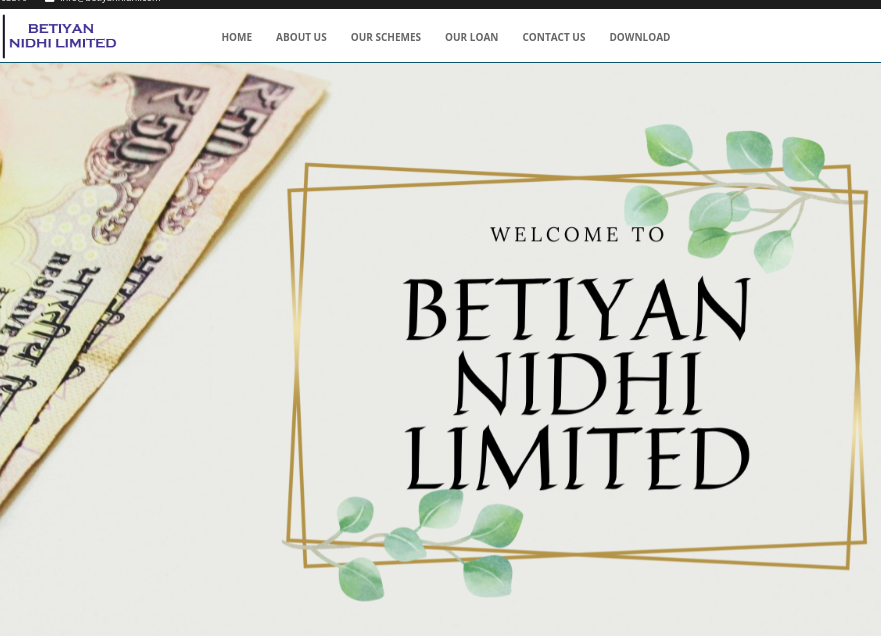
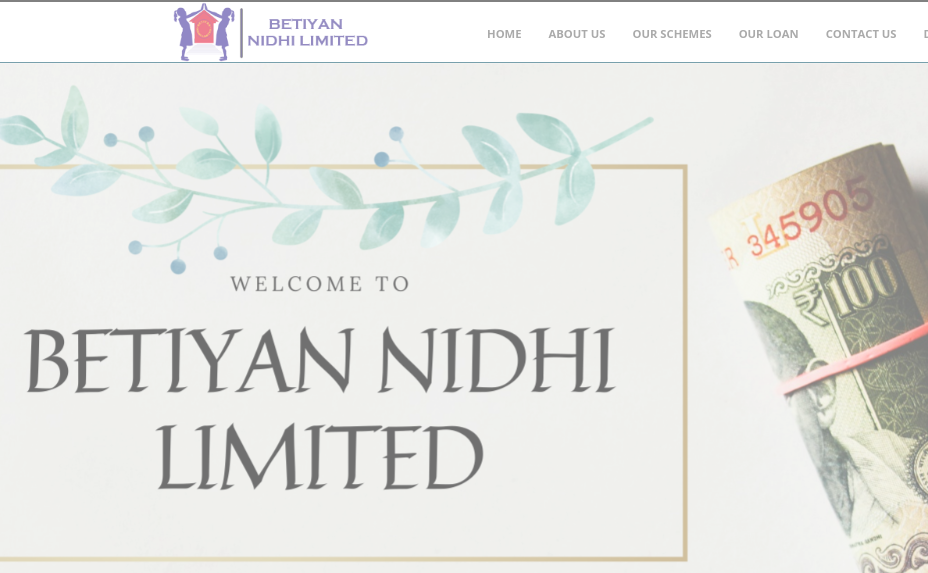
Modified frame components

diff --git a/src/Components/Frames/MobileFrame/MobileFrame.css b/src/Components/Frames/MobileFrame/MobileFrame.css
@@ -1,19 +1,66 @@
-
 .mobile-container {
-    width: 22%;
-    background-color: rgb(22,23,23);
-    border-radius: 35px;
-    padding: 10px;
-    margin-right: 40px;
-    display: flex;
-    justify-content: center;
-    align-items: center;
-    box-shadow: 0 0 10px 1px rgba(250,250,250, 0.5);
+  display: flex;
+  flex-direction: row;
+  margin: 30px;
+}
+
+.mobile-content {
+  width: 20%;
+  background-color: rgb(22, 23, 23);
+  border-radius: 35px;
+  padding: 10px;
+  margin-left: 100px;
+  display: flex;
+  justify-content: center;
+  align-items: center;
+  box-shadow: 0 0 10px 1px rgba(250, 250, 250, 1);
+  border: 2px solid rgba(255, 255, 255, 0.6);
 }
 
 .mobile-image {
-    width: 100%;
-    height: 100%;
-    object-fit: contain;
-    border-radius: 25px;
+  width: 100%;
+  height: 100%;
+  object-fit: contain;
+  border-radius: 25px;
+}
+
+.mobile-title {
+  position: absolute;
+  margin-top: 8%;
+  right: 3%;
+  font-size: 80px;
+  color: rgba(255, 255, 255, 1);
+}
+
+.mobile-text {
+  position: absolute;
+  right: 0%;
+  display: flex;
+  flex-direction: column;
+  justify-content: space-between;
+  font-weight: bold;
+  height: 200px;
+  width: 380px;
+  margin-top: 20%;
+  padding: 15px;
+  background-color: rgba(250, 250, 250, 0.1);
+  border: 2px solid rgba(250, 250, 250, 1);
+}
+
+.text-header {
+  font-size: 22px;
+  margin-top: 0px;
+}
+
+.subtext {
+  font-size: 16px;
+  opacity: 0.7;
+  margin-top: -10px;
+}
+
+.badge-container {
+  display: flex;
+  flex-direction: row;
+  flex-wrap: wrap;
+  margin-bottom: -5px;
 }

diff --git a/src/Components/Frames/DesktopFrame/DesktopFrame.css b/src/Components/Frames/DesktopFrame/DesktopFrame.css
@@ -1,18 +1,67 @@
 .desktop-container {
-    width: 60vw;
-    background-color: black;
-    border-radius: 35px;
-    padding: 12px;
-    margin: 20px;
-    display: flex;
-    justify-content: center;
-    align-items: center;
-    box-shadow: 0 0 10px 1px rgba(250,250,250, 0.5);
+  display: flex;
+  flex-direction: row;
+  margin: 30px;
+}
+
+.desktop-content {
+  width: 55vw;
+  background-color: black;
+  border-radius: 35px;
+  padding: 10px;
+  margin: 20px;
+  display: flex;
+  justify-content: center;
+  align-items: center;
+  box-shadow: 0 0 12px 1px rgba(250, 250, 250, 1);
+  border: 2px solid rgba(255, 255, 255, 0.6);
 }
 
 .desktop-image {
-    width: 100%;
-    height: 100%;
-    object-fit: contain;
-    border-radius: 25px;
+  display: block;
+  width: 100%;
+  height: 100%;
+  object-fit: contain;
+  border-radius: 25px;
+}
+
+.desktop-title {
+  position: absolute;
+  margin-top: 8%;
+  right: 3%;
+  font-size: 90px;
+  color: rgba(255, 255, 255, 1);
+}
+
+.desktop-text {
+  position: absolute;
+  right: 0%;
+  height: 200px;
+  width: 360px;
+  display: flex;
+  flex-direction: column;
+  justify-content: space-between;
+  margin-top: 20%;
+  padding: 10px;
+  font-weight: bold;
+  background-color: rgba(250, 250, 250, 0.1);
+  border: 2px solid rgba(250, 250, 250, 1);
+}
+
+.text-header {
+  font-size: 24px;
+  margin-top: 0px;
+}
+
+.subtext {
+  font-size: 16px;
+  opacity: 0.7;
+  margin-top: -10px;
+}
+
+.badge-container {
+  display: flex;
+  flex-direction: row;
+  flex-wrap: wrap;
+  margin-bottom: -5px;
 }

diff --git a/src/Components/Frames/DesktopFrame/DesktopFrame.jsx b/src/Components/Frames/DesktopFrame/DesktopFrame.jsx
@@ -1,12 +1,26 @@
 import "./DesktopFrame.css";
 
-import projectImg1 from "../../../Assets/Work-images/BNL/image1.png";
+import projectImg1 from "../../../Assets/Work-images/BNL/image3.png";
+import Badge from "../../Badge/Badge";
 
 const DesktopFrame = () => {
+  const skills = ["React", "NodeJs", "MongoDB", "Photoshop"];
   return (
-    <div>
-      <div className="desktop-container">
-        <img className="desktop-image" src={projectImg1} />
+    <div className="desktop-container">
+      <p className="desktop-title">Betiyan Nidhi Limited</p>
+      <div className="desktop-content">
+        <img className="desktop-image" alt="Website Homepage" src={projectImg1} />
+      </div>
+      <div className="desktop-text">
+        <div>
+          <p className="text-header">Frontend Developer</p>
+          <p className="subtext">Aug 2022 - Dec 2022</p>
+        </div>
+        <div className="badge-container">
+          {skills.map((item) => (
+            <Badge text={item} />
+          ))}
+        </div>
       </div>
     </div>
   );

diff --git a/src/Components/Frames/MobileFrame/MobileFrame.jsx b/src/Components/Frames/MobileFrame/MobileFrame.jsx
@@ -1,11 +1,27 @@
 import "./MobileFrame.css";
 import projectImg1 from "../../../Assets/Project-images/Petdrifts/Homepage.png";
+import Badge from "../../Badge/Badge";
 
 const MobileFrame = () => {
+  const skills = ["React Native", "Figma"];
   return (
-      <div className="mobile-container">
-        <img className="mobile-image" src={projectImg1} />
+    <div className="mobile-container">
+      <p className="mobile-title">Petdrifts Mobile App</p>
+      <div className="mobile-content">
+        <img className="mobile-image" alt="Mobile App" src={projectImg1} />
       </div>
+      <div className="mobile-text">
+        <div>
+          <p className="text-header">Mobile App Developer</p>
+          <p className="subtext">Jan 2023 - Apr 2023</p>
+        </div>
+        <div className="badge-container">
+          {skills.map((item) => (
+            <Badge text={item} />
+          ))}
+        </div>
+      </div>
+    </div>
   );
 };
 

diff --git a/src/App.css b/src/App.css
@@ -25,6 +25,5 @@ body, #root {
 }
 
 section {
-  margin: 50px;
-  padding: 50px;
+  margin: 40px;
 }
